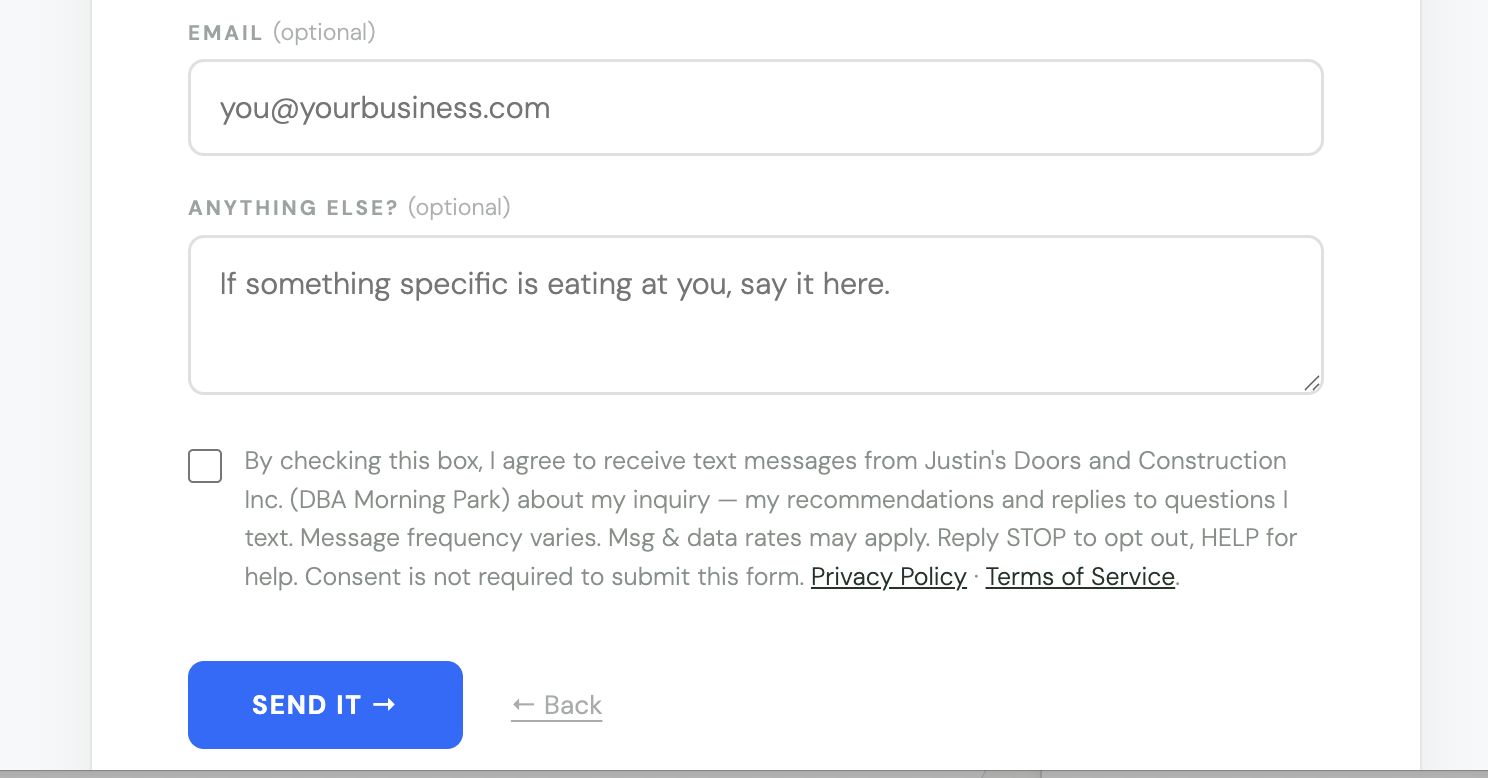
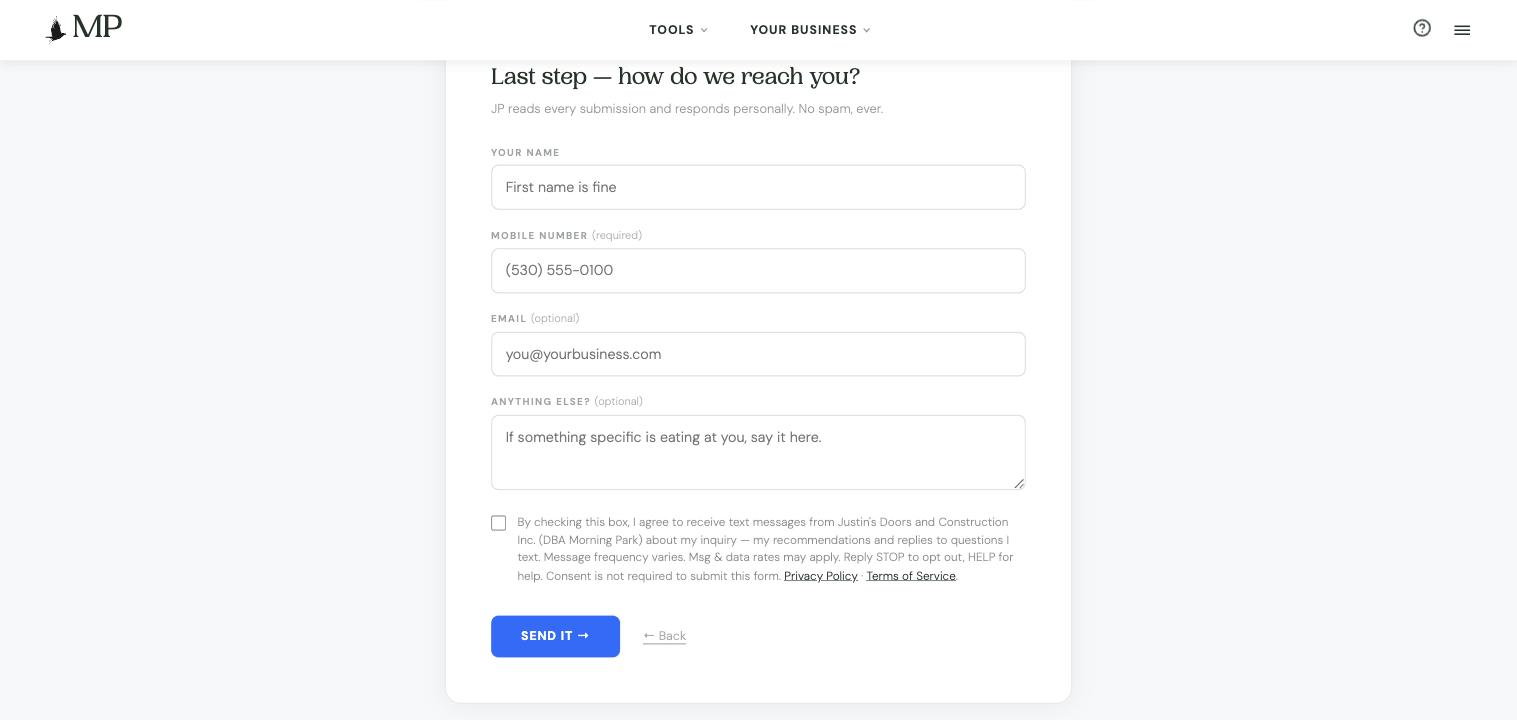
A2P: exact consent quote on sms.html, full-frame opt-in screenshot

diff --git a/sms.html b/sms.html
@@ -218,11 +218,11 @@ h1,h2,h3,.page-hero-wordmark{font-family:'PP Woodland','Bricolage Grotesque','DM
             <h2>How consent is collected</h2>
             <p>The only way to opt in is the contact form at <a href="https://mparklab.com/message.html">mparklab.com/message.html</a>. After answering a few short questions about their business, the visitor enters their mobile number and sees a single <strong>unchecked</strong> checkbox directly above the Submit button. Nothing is pre-selected. The visitor must tick the box to receive texts, and can still submit the form without doing so.</p>
 
-            <form class="sms-callout" style="font-size:1.1rem;line-height:1.6;" onsubmit="return false;" aria-label="SMS consent checkbox exactly as shown on the contact form">
+            <div class="sms-callout" style="font-size:1.1rem;line-height:1.6;">
                 <p><strong>The consent step, exactly as it appears on the contact form:</strong></p>
-                <p style="display:flex;gap:.75rem;align-items:flex-start;"><input type="checkbox" id="sms-consent-booking" name="sms_consent_booking" value="yes" style="margin-top:.4rem;flex:none;"><label for="sms-consent-booking">By checking this box, I agree to receive text messages from Justin's Doors and Construction Inc. (DBA Morning Park) about my inquiry — my recommendations and replies to questions I text. Message frequency varies. Msg &amp; data rates may apply. Reply STOP to opt out, HELP for help. Consent is not required to submit this form. Privacy Policy: <a href="https://mparklab.com/privacy.html">mparklab.com/privacy.html</a></label></p>
-                <p style="font-size:.95rem;">The box is unchecked by default and optional. <a href="https://mparklab.com/privacy.html">Privacy Policy</a> · <a href="https://mparklab.com/terms.html">Terms of Service</a>. This is a copy of the consent step exactly as it appears on the contact form.</p>
-            </form>
+                <blockquote style="margin:0;padding:.75rem 1rem;border-left:3px solid #ccc;">&#9744; By checking this box, I agree to receive text messages from Justin's Doors and Construction Inc. (DBA Morning Park) about my inquiry &mdash; my recommendations and replies to questions I text. Message frequency varies. Msg &amp; data rates may apply. Reply STOP to opt out, HELP for help. Consent is not required to submit this form. <a href="https://mparklab.com/privacy.html">Privacy Policy</a> &middot; <a href="https://mparklab.com/terms.html">Terms of Service</a>.</blockquote>
+                <p style="font-size:.95rem;">The box is unchecked by default and optional. This page is a description only; the working form is at <a href="https://mparklab.com/message.html">mparklab.com/message.html</a>.</p>
+            </div>
             <h2>Opt-in methods</h2>
             <p>There is exactly one opt-in method: the web form checkbox shown above, on the contact form at mparklab.com/message.html. We do not collect SMS consent by keyword, phone call, paper form, or purchased list.</p>
             <h2>Consent is not shared</h2>
